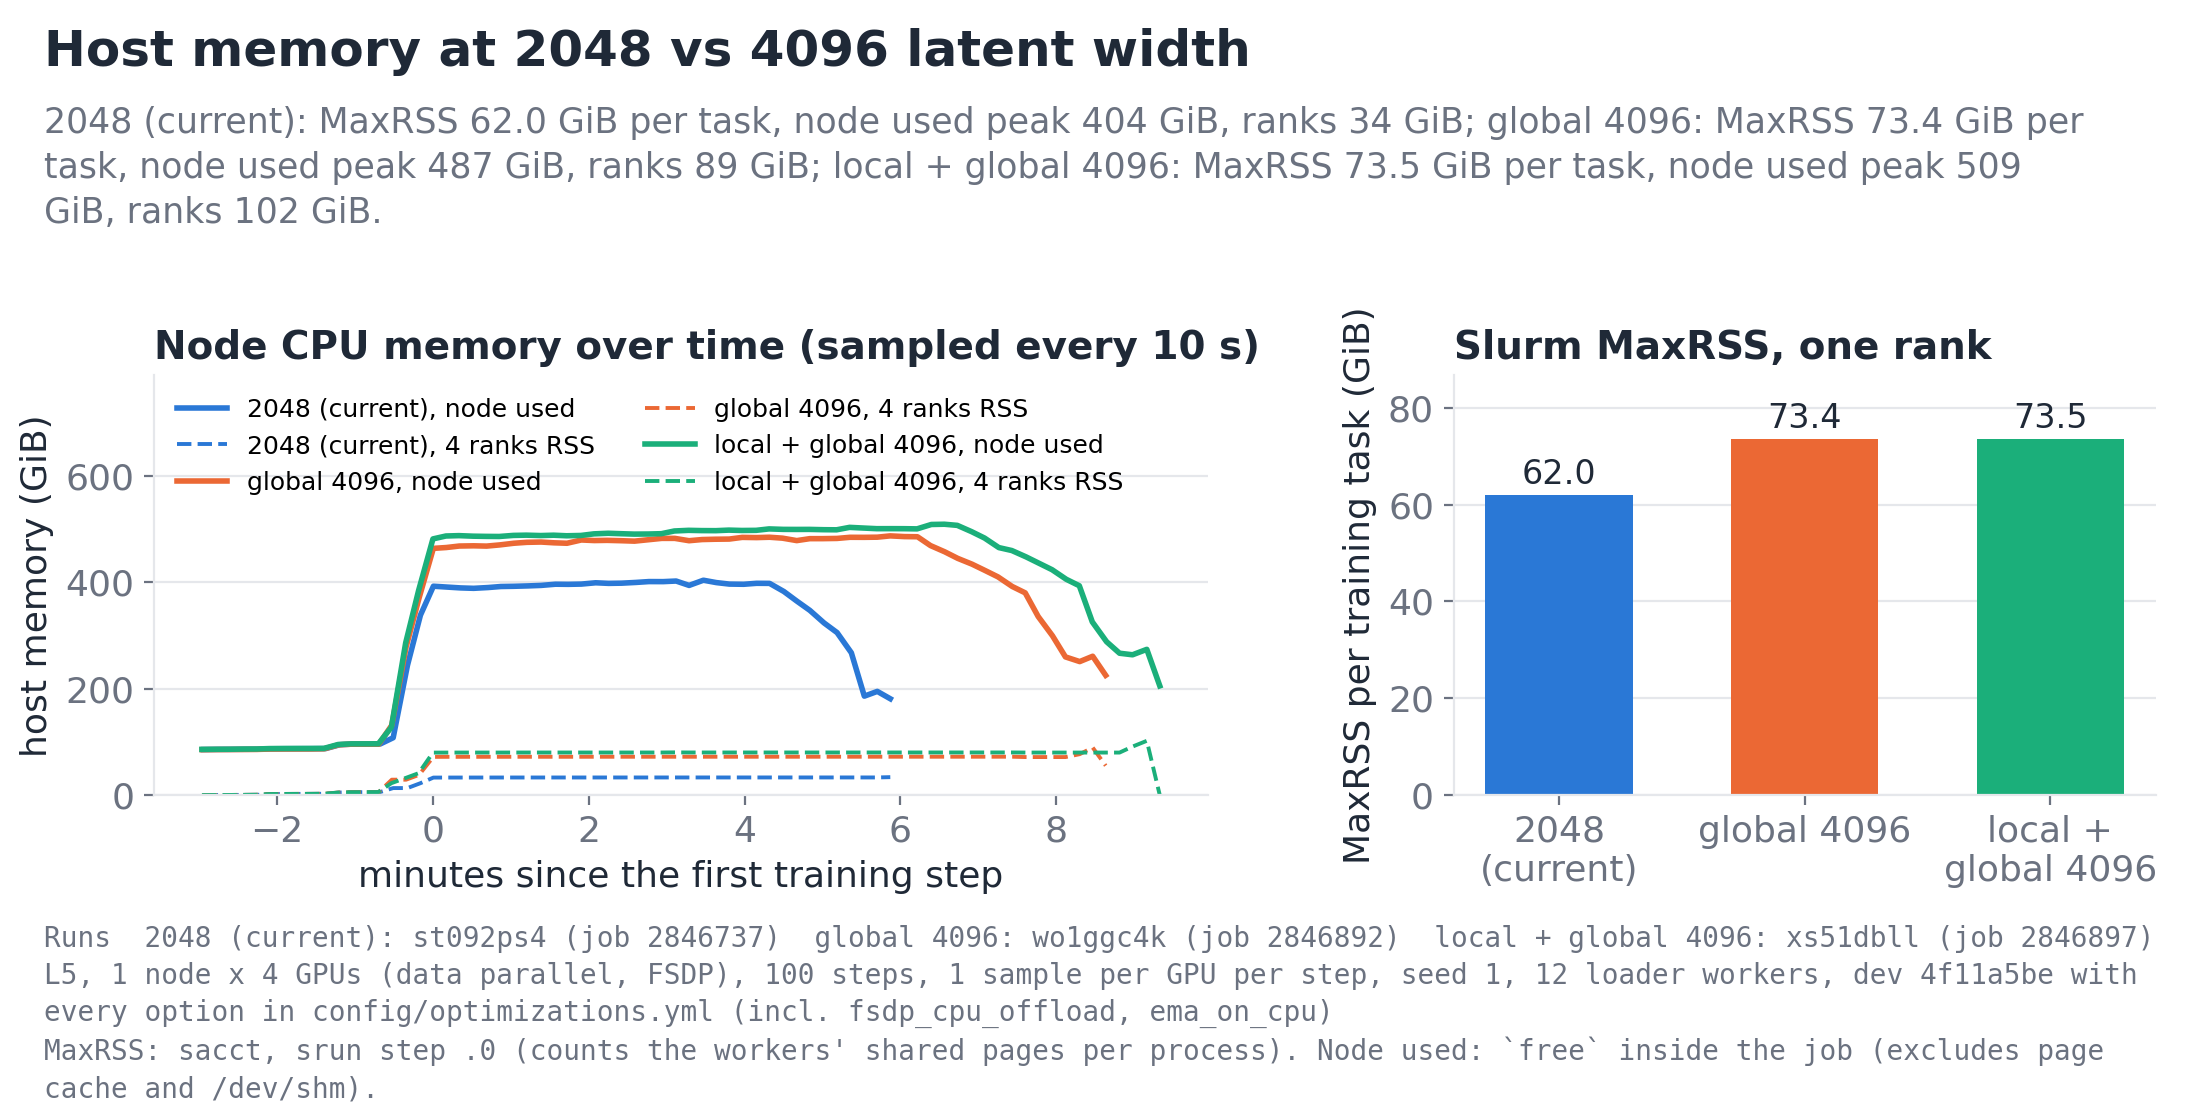
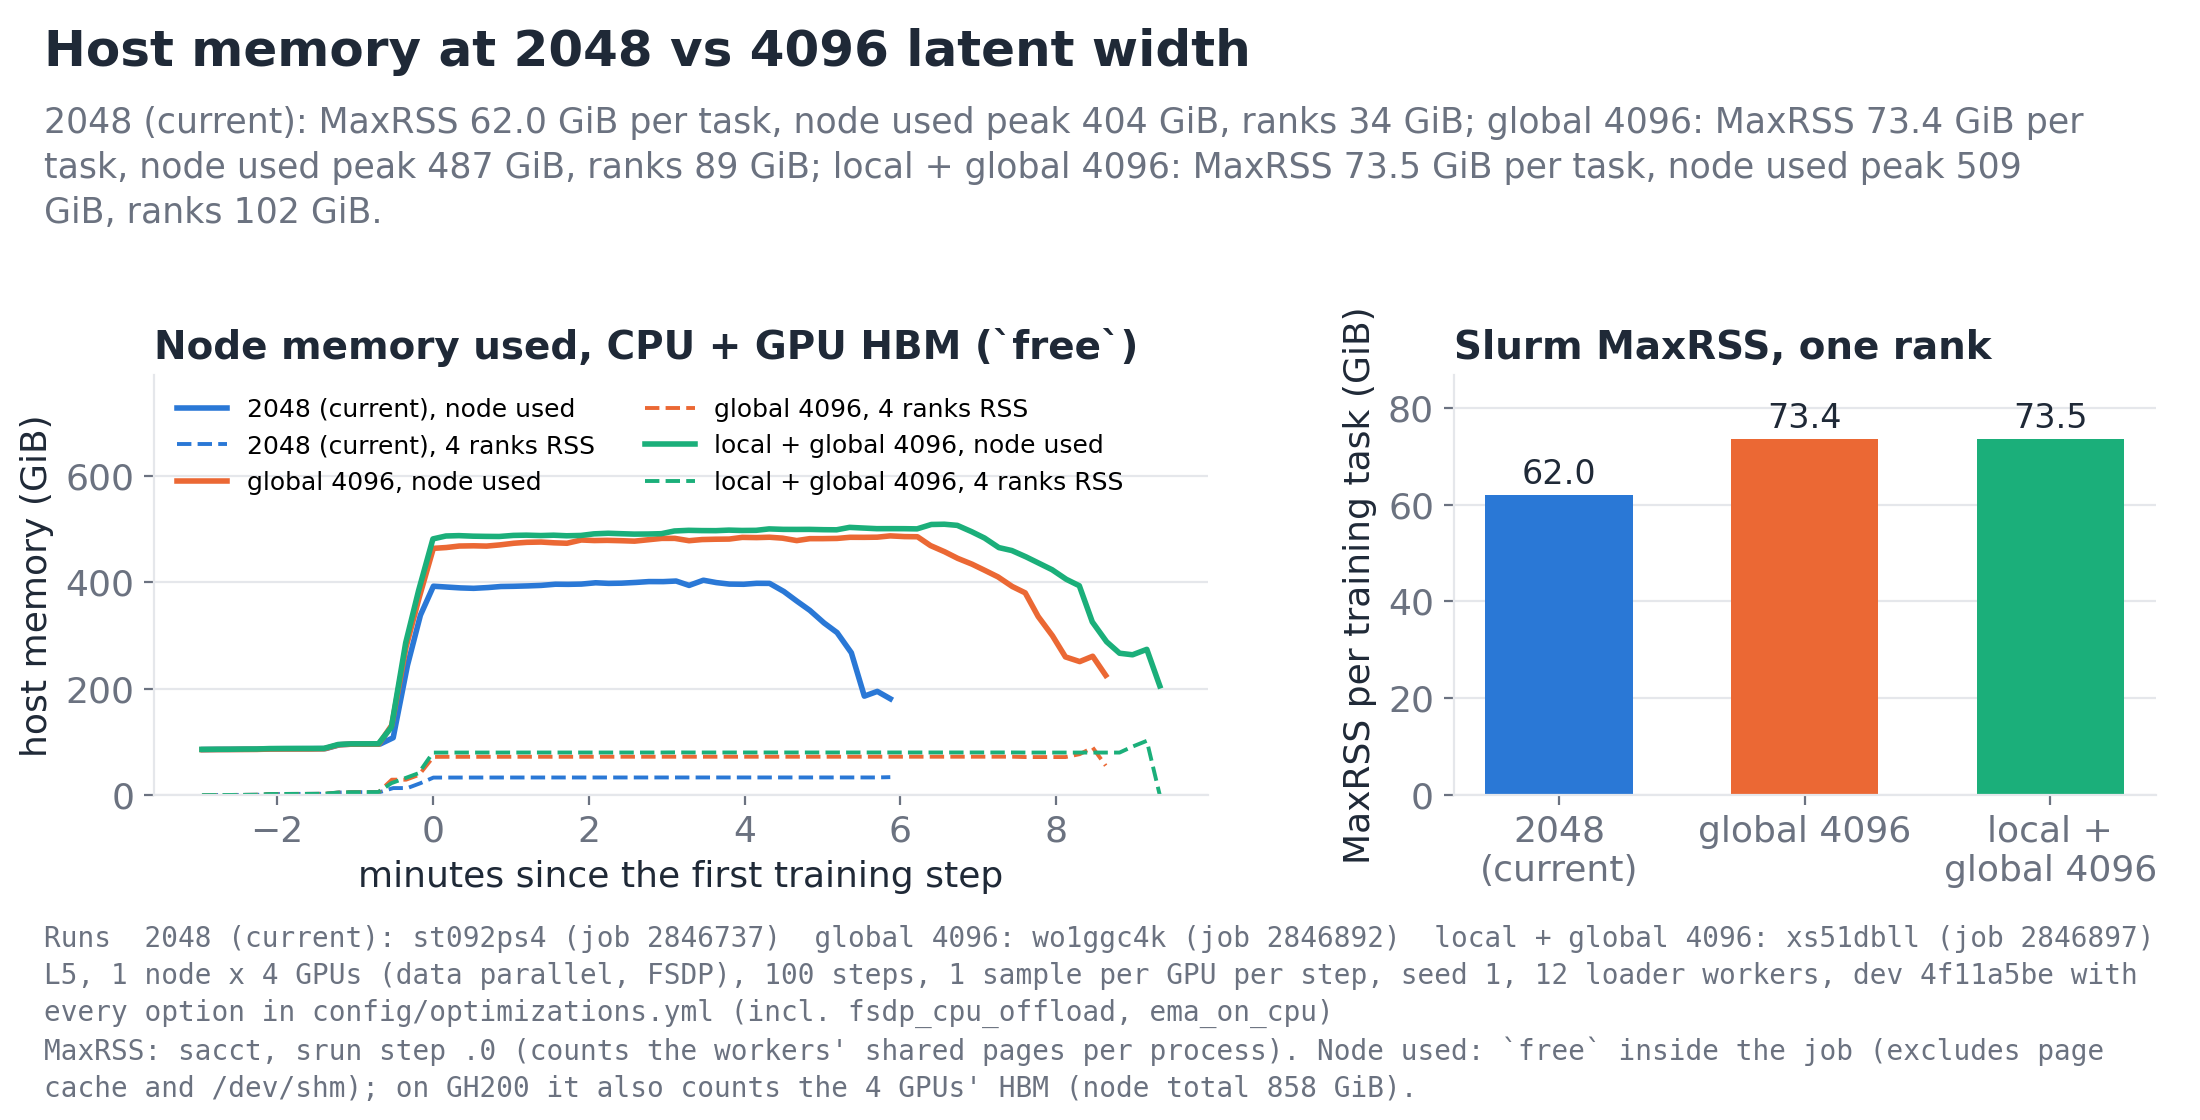
Queue latent-width follow-ups; fix the warm-up and node-memory claims
Overlays for the follow-up runs: 1000 steps with validation on 64 samples,
half lr_max at 4096, a second seed, and the PyTorch profiler over steps
10-13. queue_followup.sh submits the seven runs with at most three training
jobs in the queue, under the lock and budget check. The sampler now splits
memory by CPU and HBM NUMA nodes.

Corrections: at 100 steps the LR scheduler cuts the warm-up to 10 steps,
so the runs were mostly at the peak rate, not inside the warm-up. `free`
on GH200 also counts the GPUs' HBM, so "node used" is CPU + HBM. Fixed
the figure labels and LOG.md, and added used-minus-GPU to numbers.json.

diff --git a/scripts/plot_latent_width.py b/scripts/plot_latent_width.py
@@ -229,12 +229,15 @@ def plot_loss(runs, numbers):
         + (f" / {mean_diff[r['run']]:+.3f}" if r["run"] in mean_diff else " / -")
         for label, r in shown
     )
-    lr = rows[0][3]["lr"]
+    lr = [x for x in rows[0][3]["lr"] if x is not None]
+    peak_step = next(i for i, x in enumerate(lr) if x >= 0.999 * max(lr))
     noise = (f"Noise reference (gray): 2048 repeat {rep['run']} (job {rep['job']}), same code, "
              f"configuration and seed as 2048. " if rep else "")
     finish(fig, "latent_loss", "Training loss at 2048 vs 4096 latent width", sub,
-           source_line(runs, f"{noise}The learning rate is still in its warm-up for all 100 "
-                       f"steps ({lr[0]:.1e} -> {lr[-1]:.1e}, logged); validation = 4 samples."))
+           source_line(runs, f"{noise}Logged learning rate: {lr[0]:.1e} at step 0, peak "
+                       f"{max(lr):.1e} from step {peak_step}, {lr[-1]:.1e} at the last step (at 100 "
+                       f"steps the scheduler shortens the warm-up to 10 steps and the cooldown to "
+                       f"5); validation = 4 samples."))
 
 
 def plot_step_time(runs, numbers):
@@ -326,7 +329,7 @@ def plot_host(runs, numbers):
                      label=f"{label}, 4 ranks RSS")
         ax1.set_xlabel("minutes since the first training step")
         ax1.set_ylabel("host memory (GiB)")
-        ax1.set_title("Node CPU memory over time (sampled every 10 s)", loc="left")
+        ax1.set_title("Node memory used, CPU + GPU HBM (`free`)", loc="left")
         ax1.set_ylim(0, max(max(r["mem"]["used_gib"]) for _, _, _, r in sampled) * 1.55)
         ax1.legend(loc="upper left", fontsize=9, ncol=2)
     else:
@@ -345,6 +348,12 @@ def plot_host(runs, numbers):
             "ranks_rss_peak": max(r["mem"]["rank_rss_gib"]) if r["mem"] else None,
             "workers_rss_peak": max(r["mem"]["worker_rss_gib"]) if r["mem"] else None,
             "node_total": r["mem"]["total_gib"] if r["mem"] else None,
+            # `free` on GH200 counts the GPUs' HBM; used minus the nvidia-smi total at the same
+            # sample, max over samples
+            "node_used_minus_gpu_peak": max(
+                u - sum(g) / 1024 for u, g in zip(r["mem"]["used_gib"], r["mem"]["gpu_used_mib"],
+                                                   strict=True) if g
+            ) if r["mem"] and r["mem"]["gpu_used_mib"] else None,
         }
         for _, _, _, r in rows
     }
@@ -358,7 +367,8 @@ def plot_host(runs, numbers):
     finish(fig, "latent_host_memory", "Host memory at 2048 vs 4096 latent width",
            "; ".join(parts) + ".", source_line(runs,
            "MaxRSS: sacct, srun step .0 (counts the workers' shared pages per process). "
-           "Node used: `free` inside the job (excludes page cache and /dev/shm)."))
+           "Node used: `free` inside the job (excludes page cache and /dev/shm); on GH200 it "
+           "also counts the 4 GPUs' HBM (node total 858 GiB)."))
 
 
 def plot_params(runs, numbers):

diff --git a/experiments/martin/LOG.md b/experiments/martin/LOG.md
@@ -90,8 +90,12 @@ link plots when available. Record failures and the reason for the final verdict.
 
 Same code for all rows: dev `4f11a5be` plus `config/optimizations.yml` (with `fsdp_cpu_offload`, `ema_on_cpu`), L5,
 1 node × 4 GPUs, 100 steps, seed 1, overlays from `22789398` on `martin/latentspace`. Data and figures:
-`latent/<run_id>/`, `latent/figures/` (numbers in `latent/figures/numbers.json`). All 100 steps are inside the
-LR warm-up (logged lr 4.0e-6 → 2.0e-5), so the loss columns say nothing yet about final model quality.
+`latent/<run_id>/`, `latent/figures/` (numbers in `latent/figures/numbers.json`). LR: at 100 steps the scheduler
+cuts the configured warm-up (256) and cooldown (512) to 10 and 5 steps (`lr_scheduler.py`, they don't fit), so the
+logged lr goes 4.0e-6 → peak 1.0e-4 (5e-5 × √4) at step 8, holds to step 95, then 2.0e-5 at step 99. (Corrected
+2026-11-12: I first wrote that all 100 steps were inside the warm-up.) 100 steps say nothing yet about final model
+quality. "node used" is `free` inside the job, which on GH200 also counts the 4 GPUs' HBM (858 GiB total, 478 of
+it CPU); used minus the nvidia-smi total of the same sample peaks at 360 / 413 / 433 GiB.
 
 | date | overlay | run_id | job_id | state | median s/step (11–100) | GPU GiB alloc / reserved / nvidia-smi | MaxRSS per task / node used peak / 4 ranks RSS (GiB) | params | loss last / val / mean Δ vs 2048, steps 50–99 | notes |
 | --- | --- | --- | --- | --- | --- | --- | --- | --- | --- | --- |
@@ -101,6 +105,25 @@ LR warm-up (logged lr 4.0e-6 → 2.0e-5), so the loss columns say nothing yet ab
 
 Verdict: 4096 costs 1.46–1.58× step time and ~2× GPU memory, and stays just under 20 GiB on L5. At 100 steps the
 loss shows no gain: last-step and validation loss are within the 0.015 run-to-run noise, and the mean over steps
-50–99 is 0.02–0.03 higher than at 2048 (the repeat pair: −0.002). Needs runs past the warm-up, and probably a
+50–99 is 0.02–0.03 higher than at 2048 (the repeat pair: −0.002). Needs longer runs, and probably a
 lower learning rate for the wider model, before saying anything about quality.
 Node-hours: 0.58 for the three training jobs (plus three short cleanup jobs).
+
+### Follow-up runs (submitted 2026-11-12 08:30, Martin's OK for next steps 1, 2, 3 and 6)
+
+Same setup as above. Submitted by `latent/chain/queue_followup.sh` on the login node (≤ 3 training jobs queued,
+lock + budget check each). The sampler (`latent/chain/sample.sh`) now also records CPU-NUMA and HBM-NUMA memory.
+Overlays after `config/optimizations.yml`: `exp_latent_1000steps.yml` (4000 samples = 1000 steps, the configured
+256-step warm-up and 512-step cooldown, validation 64 samples), `exp_latent_lrhalf.yml` (`lr_max` 2.5e-5),
+`exp_latent_torchprof.yml` (PyTorch profiler on rank 0, steps 10–13, then stop; not nsys, whose fixed 120–240 s
+window would record start-up at L5), `exp_latent_seed2.yml` (`rng_seed` 2: data order and init).
+
+| date | overlays | run_id | job_id | state | notes |
+| --- | --- | --- | --- | --- | --- |
+| 2026-11-12 | `1000steps`, `base2048` | `o7inoh04` | `2852891` | PENDING | 1:30 limit |
+| 2026-11-12 | `1000steps`, `global4096` | `am9aimgs` | `2852899` | PENDING | 2:00 limit |
+| 2026-11-12 | `1000steps`, `global4096`, `lrhalf` | `zg4e8rya` | `2852903` | PENDING | 2:00 limit |
+| 2026-11-12 | `torchprof`, `global4096` | — | — | waiting for a slot | 0:30 limit |
+| 2026-11-12 | `torchprof`, `base2048` | — | — | waiting for a slot | 0:30 limit; the reference for the split |
+| 2026-11-12 | `seed2`, `global4096` | — | — | waiting for a slot | 0:45 limit |
+| 2026-11-12 | `seed2`, `base2048` | — | — | waiting for a slot | 0:30 limit |
